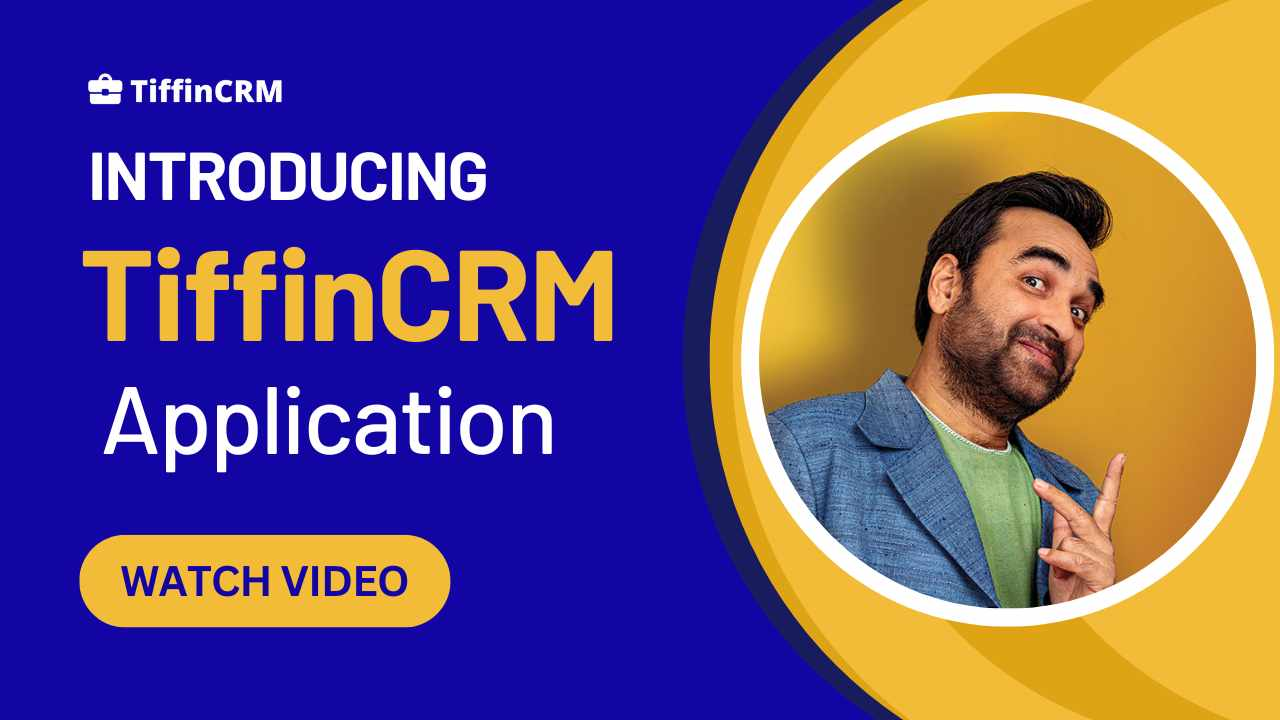
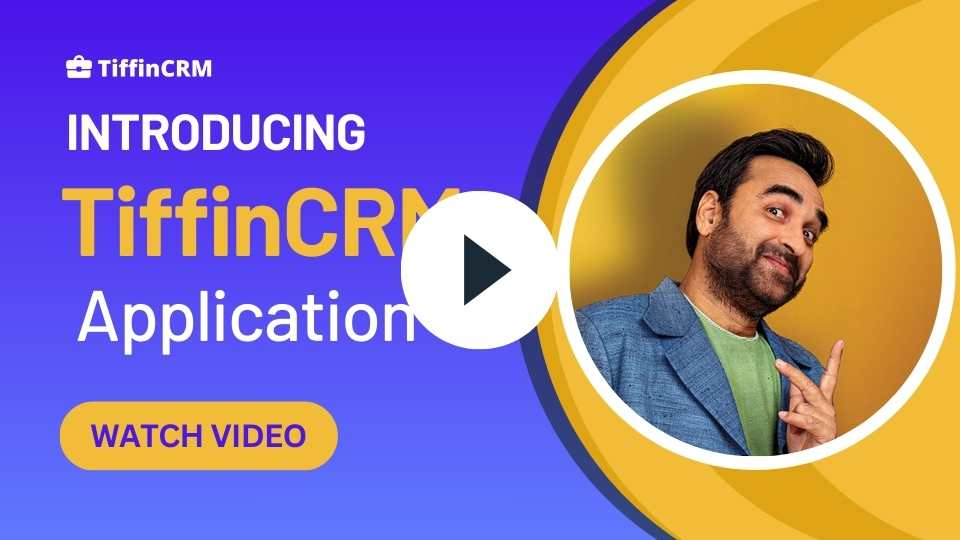
imp

diff --git a/index.php b/index.php
@@ -61,7 +61,7 @@
           </div>
           <div class="service_right_side_cont">
             <div onclick="vdoPopUp()" class="hero_service_vdo_container">
-              <img src="/assets/img/thumbnail2.jpg" />
+              <img src="/assets/img/thumbnail.jpg?v1" />
             </div>
             <!-- <div class="video_pop_box">
               <div class="vdo_container">
